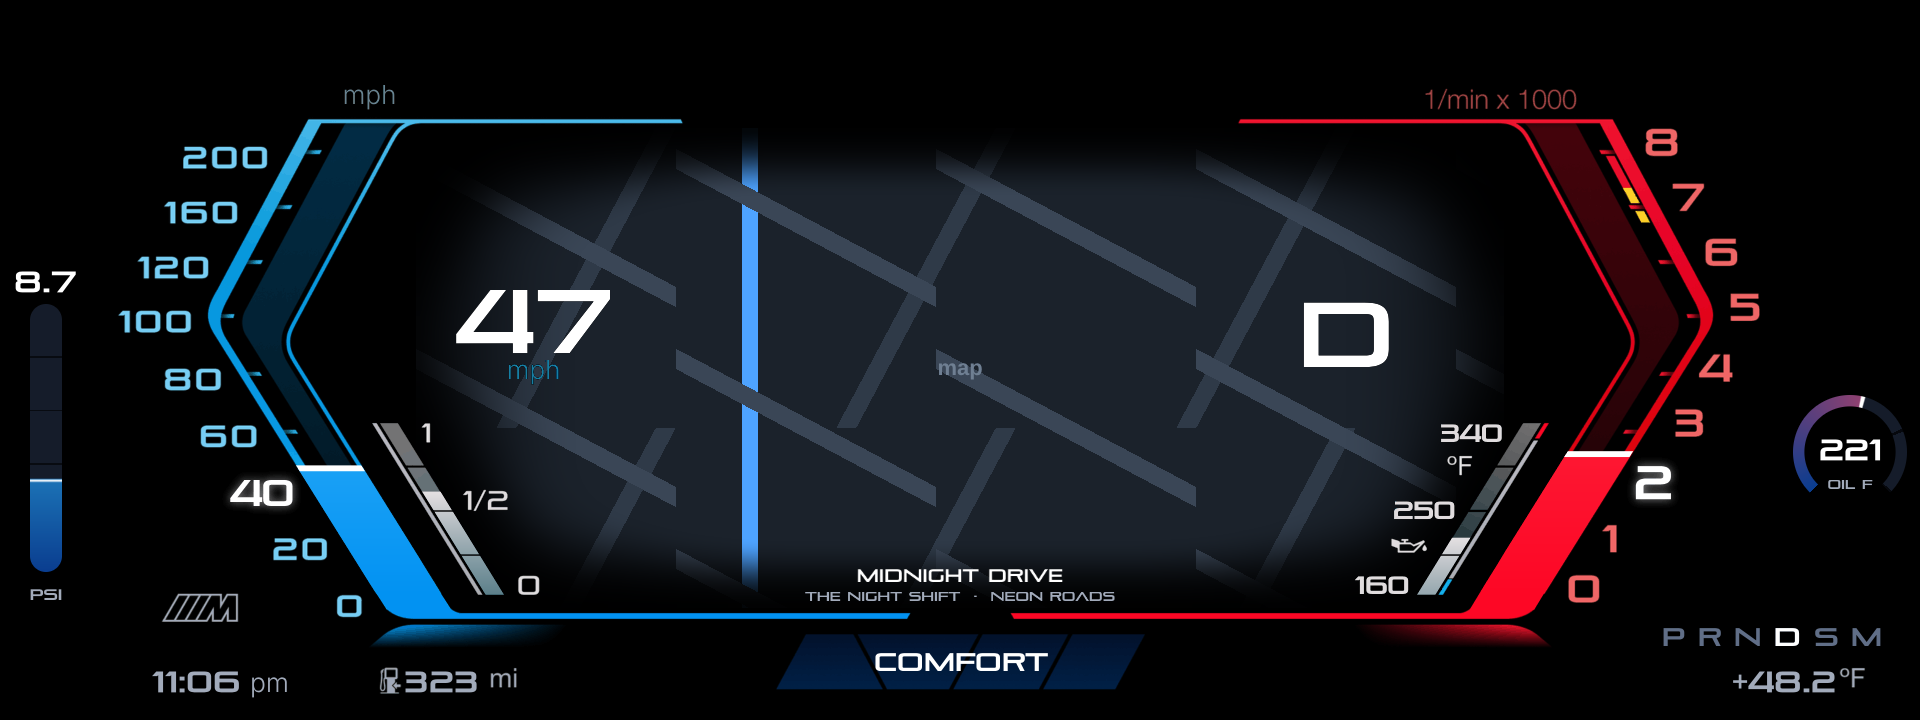
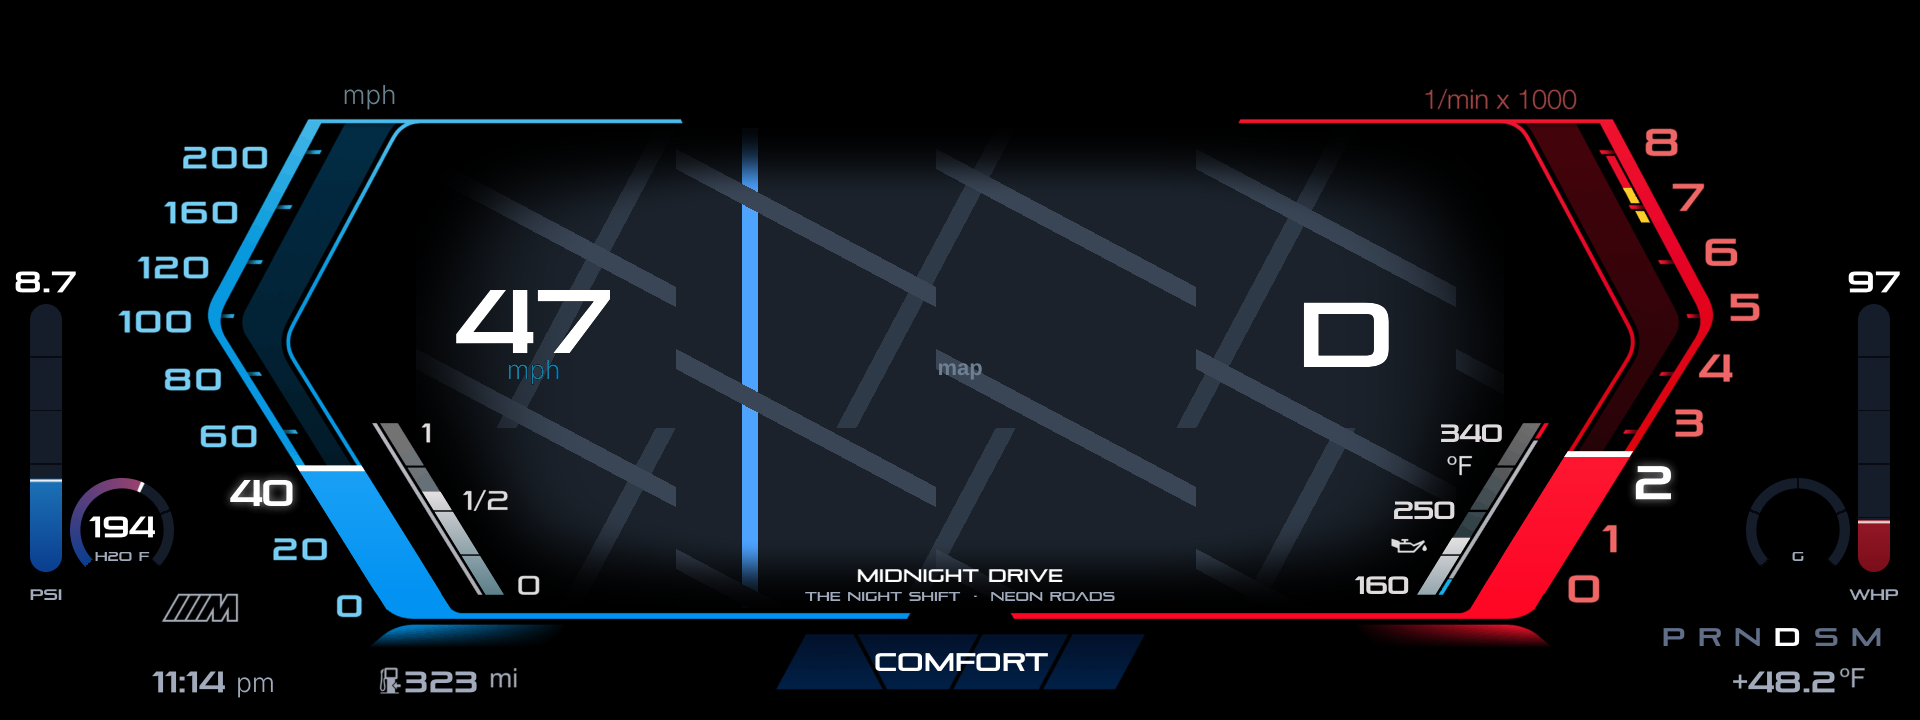
M340i Sport: four side gauges: the upright bars and a round dial beside each
The round gauges are their own pair (Settings > Round gauge, left / right), low between each bar and the scale's
lowest numbers (r 53), next to the upright ones (Settings > Upright gauge, left / right); the style settings gone.
Page 5 previews all four. Cluster Layouts 0.37.0.

Claude-Session: https://claude.ai/code/session_01NEJZ4JkLAWdYBUEsKdjt1e

Changed region(s): [[0.9062, 0.3667, 1.0, 0.7944], [0.0312, 0.6722, 0.0938, 0.7944], [0.0938, 0.9167, 0.1562, 0.9778]]

diff --git a/apps/cluster_layouts/main.js b/apps/cluster_layouts/main.js
@@ -94,7 +94,7 @@ mgu.run({
             directions: settings.get('directions') === 'off' ? 'off' : 'on',   // (M340i Sport: the next turn at the top of the centre)
             // (M340i Sport: the side gauges, and where their power and torque are taken)
             sideLeft: settings.get('sideLeft') || 'off', sideRight: settings.get('sideRight') || 'off',
-            styleLeft: settings.get('styleLeft') === 'dial' ? 'dial' : 'bar', styleRight: settings.get('styleRight') === 'dial' ? 'dial' : 'bar',
+            dialLeft: settings.get('dialLeft') || 'off', dialRight: settings.get('dialRight') || 'off',
             powerAt: settings.get('powerAt') === 'wheel' ? 'wheel' : 'crank', drivetrainLoss: Number(settings.get('drivetrainLoss')) || 15,
             vehicle: D.vehicle().vehicle,      // set, or found from the car (Auto)
         });
@@ -163,7 +163,7 @@ mgu.run({
         settings.onChange((k) => {
             if (k === 'look' || k === 'background') return cluster.recolour();
             if (k === 'layout') layout = byId(settings.get('layout'));
-            if (['layout', 'centre', 'speedUnit', 'tempUnit', 'torqueUnit', 'redline', 'rpmMax', 'boxClear', 'boxBezel', 'cluster', 'bottomStrip', 'vehicle', 'tankLitres', 'nowPlaying', 'directions', 'sideLeft', 'sideRight', 'styleLeft', 'styleRight', 'powerAt', 'drivetrainLoss'].indexOf(k) >= 0) cluster.rebuild();
+            if (['layout', 'centre', 'speedUnit', 'tempUnit', 'torqueUnit', 'redline', 'rpmMax', 'boxClear', 'boxBezel', 'cluster', 'bottomStrip', 'vehicle', 'tankLitres', 'nowPlaying', 'directions', 'sideLeft', 'sideRight', 'dialLeft', 'dialRight', 'powerAt', 'drivetrainLoss'].indexOf(k) >= 0) cluster.rebuild();
         });
 
         /* ---------- the car's range and charge signals, from its own catalog ---------- */
@@ -182,29 +182,37 @@ mgu.run({
          * now (or a sample while parked), the warnings and the 0-60 best below */
         function widgetsPage(cv, t) {
             const d = data(), o = options(), L = require('./layout_m340');
-            cv.text('Side gauges   ·   Settings > Side gauge, left / right', 48, 70, 26, t.text, { font: 'bold', literal: true });
+            cv.text('Side gauges   ·   Settings > Upright gauge and Round gauge, left / right', 48, 60, 24, t.text, { font: 'bold', literal: true });
             const sample = !(isNum(d.rpm) && d.rpm > 300);
+            if (sample) cv.text('(sample readings: the engine is off)', 48, 92, 18, t.dim, { font: 'label', literal: true });
             const dd = sample ? Object.assign({}, d, { rpm: 4800, torque: 480, boostActual: 1.05, oil: 105, coolant: 95, gLong: 0.4, gLat: 0.3, speed: 96 }) : d;
-            ['left', 'right'].forEach((side, i) => {
-                const kind = o['side' + (side === 'left' ? 'Left' : 'Right')], x = 120 + i * 560;
-                cv.text(side === 'left' ? 'Left' : 'Right', x, 130, 22, t.dim, { font: 'bold', literal: true });
-                if (!kind || kind === 'off') { cv.text('Off', x, 170, 30, t.dim, { font: 'bold', literal: true }); return; }
-                const r = L.sideReading(kind, o, dd), K = L.SIDE_KINDS[kind];
-                const f = Math.max(0, Math.min(1, ((r.value || 0) - (K.min || 0)) / (K.max - (K.min || 0)))), bx = x, by = 150, bw = 44, bh = 300;
-                if (o['style' + (side === 'left' ? 'Left' : 'Right')] === 'dial') {
-                    // the dial: its ring from the lower left clockwise, lit to the reading
-                    const cx = bx + 22, cy = by + 150, R = 70;
-                    cv.arc(cx, cy, R - 14, R, 225, 495, '#151c2a');
-                    if (f > 0) cv.arc(cx, cy, R - 14, R, 225, 225 + 270 * f, K.c[1]);
-                } else {
-                    cv.roundRect(bx, by, bw, bh, bw / 2, '#151c2a');
-                    if (f > 0) cv.roundRect(bx, by + bh * (1 - f), bw, bh * f, bw / 2, K.c[1]);
-                    cv.fillRect(bx, by + bh * (1 - f), bw, 3, '#ffffff');
-                }
-                cv.text(r.text, bx + 80, by + 120, 64, t.text, { font: 'bold', literal: true });
-                cv.text(r.unit + (sample ? '   (a sample: the engine is off)' : ''), bx + 84, by + 160, 22, t.dim, { font: 'bold', literal: true });
-                cv.text({ boost: 'Boost over the air outside', hp: 'Horsepower from torque and revs', torque: 'Torque, the engine\'s reading', oil: 'Oil temperature', coolant: 'Coolant temperature', gforce: 'G-force, braking, cornering and accelerating together', speedkmh: 'Speed in km/h' }[kind]
-                    + (kind !== 'boost' ? (o.powerAt === 'wheel' ? ', at the wheels (less ' + o.drivetrainLoss + ' %)' : ', at the crank') : ''), bx + 84, by + 196, 18, t.dim, { font: 'label', literal: true });
+            const NAMES = { boost: 'Boost', hp: 'Horsepower', torque: 'Torque', oil: 'Oil temperature', coolant: 'Coolant temperature', gforce: 'G-force', speedkmh: 'Speed in km/h' };
+            /* each side as on the cluster: the upright gauge at the outer edge, the round one beside it */
+            [['left', 'Left', 60], ['right', 'Right', 840]].forEach(([side, Side, x0]) => {
+                cv.text(Side, x0, 136, 22, t.dim, { font: 'bold', literal: true });
+                const bar = o['side' + Side], dial = o['dial' + Side];
+                const one = (kind, x, round) => {
+                    if (!kind || kind === 'off') { cv.text((round ? 'Round' : 'Upright') + ': off', x, 300, 22, t.dim, { font: 'bold', literal: true }); return; }
+                    const r = L.sideReading(kind, o, dd), K = L.SIDE_KINDS[kind];
+                    const f = Math.max(0, Math.min(1, ((r.value || 0) - (K.min || 0)) / (K.max - (K.min || 0))));
+                    if (round) {
+                        const cx = x + 80, cy = 300, R = 80;
+                        cv.arc(cx, cy, R - 16, R, 225, 495, '#151c2a');
+                        if (f > 0) cv.arc(cx, cy, R - 16, R, 225, 225 + 270 * f, K.c[1]);
+                        cv.text(r.text, cx, cy + 12, 36, t.text, { font: 'bold', literal: true, align: 'center' });
+                        cv.text(r.unit, cx, cy + 40, 16, t.dim, { font: 'bold', literal: true, align: 'center' });
+                    } else {
+                        const by = 170, bw = 40, bh = 280;
+                        cv.roundRect(x, by, bw, bh, bw / 2, '#151c2a');
+                        if (f > 0) cv.roundRect(x, by + bh * (1 - f), bw, bh * f, bw / 2, K.c[1]);
+                        cv.fillRect(x, by + bh * (1 - f), bw, 3, '#ffffff');
+                        cv.text(r.text, x + bw / 2, by - 12, 26, t.text, { font: 'bold', literal: true, align: 'center' });
+                        cv.text(r.unit, x + bw / 2, by + bh + 24, 16, t.dim, { font: 'bold', literal: true, align: 'center' });
+                    }
+                    cv.text(NAMES[kind] + (kind === 'hp' || kind === 'torque' ? (o.powerAt === 'wheel' ? ' (wheels, less ' + o.drivetrainLoss + ' %)' : ' (crank)') : ''), round ? x + 10 : x - 10, 440, 16, t.dim, { font: 'label', literal: true });
+                };
+                // (the left side's upright gauge at its outer edge, then the round one; the right side mirrored)
+                if (side === 'left') { one(bar, x0, false); one(dial, x0 + 110, true); } else { one(dial, x0 + 380, true); one(bar, x0 + 640, false); }
             });
             cv.text('Warnings: ' + (D.status().warnings || '-'), 48, 490, 16, t.dim, { font: 'label', literal: true });
             return cv;

diff --git a/apps/cluster_layouts/layout_m340.js b/apps/cluster_layouts/layout_m340.js
@@ -425,8 +425,9 @@ const SIDE_KINDS = {
 };
 /** A reading as a place along a gauge (0..1), from its kind's min (0 by default) to its max. */
 const sideFrac = (K, v) => clamp01(((v || 0) - (K.min || 0)) / (K.max - (K.min || 0)));
-/* the round side gauges (Settings > Side gauge style: Round): in each outer gap, beside the scales' middle */
-const SIDE_D = { left: { cx: 70 }, right: { cx: 1850 }, cy: 452, r: 58 };
+/* the round gauges (Settings > Round gauge, left / right): beside the upright bars, low in each outer gap, between
+ * the bar and the scale's lowest numbers */
+const SIDE_D = { left: { cx: 122 }, right: { cx: 1798 }, cy: 530, r: 53 };
 /** A side gauge's reading: its value (in its unit), as text, and its unit. */
 function sideOf(kind, o) {
     const K = SIDE_KINDS[kind], wheel = o.powerAt === 'wheel', keep = 1 - (Number(o.drivetrainLoss) || 15) / 100;
@@ -441,7 +442,6 @@ function sideReading(kind, o, d) {
     return { value: v, text: v === null ? '--' : SIDE_KINDS[kind].fmt(v), unit: r.unit };
 }
 function sideGauge(side, kind, o) {
-    if ((side === 'left' ? o.styleLeft : o.styleRight) === 'dial') return sideDial(side, kind, o);
     const K = SIDE_KINDS[kind], at = SIDE_G[side], { of, unit } = sideOf(kind, o);
     let lbl = null;
     const label = () => {
@@ -479,8 +479,8 @@ function sideDial(side, kind, o) {
         { key: 'dial_' + side, kind: 'm340dial', x: cx - R, y: SIDE_D.cy - R, w: 2 * R, h: 2 * R,
             params: { u_ticks: [K.ticks], u_track: hexRGB('#151c2a') }, colors: () => ({ c0: K.c[0], c1: K.c[1] }),
             value: (d) => sideFrac(K, of(d)), max: 1, glide: true },
-        ...line('dialVal_' + side, 'small', { x: cx, base: SIDE_D.cy + 8 }, 'middle', 100, (d) => { const v = of(d); return v === null ? '' : K.fmt(v); }, 'fg'),
-        { key: 'dialUnit_' + side, kind: 'm340text', x: cx - 48, y: SIDE_D.cy + 20, w: 96, h: 24, live: { name: 'u_text', w: 96, h: 24, draw: label },
+        ...line('dialVal_' + side, 'small', { x: cx, base: SIDE_D.cy + 7 }, 'middle', 84, (d) => { const v = of(d); return v === null ? '' : K.fmt(v); }, 'fg'),
+        { key: 'dialUnit_' + side, kind: 'm340text', x: cx - 48, y: SIDE_D.cy + 14, w: 96, h: 24, live: { name: 'u_text', w: 96, h: 24, draw: label },
             colors: (t) => ({ color: [t.dim, 1] }) },
     ];
 }
@@ -580,6 +580,9 @@ module.exports = {
         // the side gauges (Settings > Side gauges)
         if (o.sideLeft && o.sideLeft !== 'off' && SIDE_KINDS[o.sideLeft]) list.push(...sideGauge('left', o.sideLeft, o));
         if (o.sideRight && o.sideRight !== 'off' && SIDE_KINDS[o.sideRight]) list.push(...sideGauge('right', o.sideRight, o));
+        // the round gauges beside them (Settings > Round gauge, left / right)
+        if (o.dialLeft && o.dialLeft !== 'off' && SIDE_KINDS[o.dialLeft]) list.push(...sideDial('left', o.dialLeft, o));
+        if (o.dialRight && o.dialRight !== 'off' && SIDE_KINDS[o.dialRight]) list.push(...sideDial('right', o.dialRight, o));
         if (stock) return list.filter((p) => p.kind === 'flat' || p.x + p.w <= 566 || p.x >= 1104);
         return list;
     },

diff --git a/tools/preview.js b/tools/preview.js
@@ -128,7 +128,7 @@ function navOf(v) {
 
 if (require.main === module) {
     const a = args(process.argv.slice(2));
-    const s = makeScene({ layout: a.layout, look: a.look, black: !!a.black, options: { centre: a.centre, speedUnit: a.kmh ? 'kmh' : 'mph', vehicle: a.engine ? 'ice' : 'phev', cluster: a.mcar ? 'm' : 'standard', bottomStrip: a.strip ? 'stock' : 'layout', sideLeft: a.left || 'off', sideRight: a.right || 'off', styleLeft: a.lstyle || 'bar', styleRight: a.rstyle || 'bar', powerAt: a.wheel ? 'wheel' : 'crank', drivetrainLoss: 15 },
+    const s = makeScene({ layout: a.layout, look: a.look, black: !!a.black, options: { centre: a.centre, speedUnit: a.kmh ? 'kmh' : 'mph', vehicle: a.engine ? 'ice' : 'phev', cluster: a.mcar ? 'm' : 'standard', bottomStrip: a.strip ? 'stock' : 'layout', sideLeft: a.left || 'off', sideRight: a.right || 'off', dialLeft: a.ldial || 'off', dialRight: a.rdial || 'off', powerAt: a.wheel ? 'wheel' : 'crank', drivetrainLoss: 15 },
         data: { speed: a.speed * (a.kmh ? 1 : 1.609344), rpm: a.rpm, gear: a.gear, stage: a.stage, mode: a.mode, driveMode: a.drive, oil: a.oil, coolant: a.coolant, outside: a.outside, soc: a.soc, kw: a.kw, erange: a.erange, frange: a.frange,
             gearbox: a.gearbox, iat: a.iat, battTemp: a.batt, boostActual: a.boost, torque: 312, timing: 14.5, hpfp: 205, boostTarget: 0.9, engineOn: a.rpm > 300, media: songOf(a.song), nav: navOf(a.nav), warnings: a.warn ? String(a.warn).split('|').map((n, i) => ({ id: String(i), name: n.replace(/^!/, ''), red: n[0] === '!' })) : [], zeroSixty: a.zs ? { s: Number(a.zs), best: Number(a.zs), isBest: true } : null, tyres: { p: { FL: 2.48, FR: 2.50, RL: 2.62, RR: 2.60 }, t: { FL: 24, FR: 25, RL: 27, RR: 26 } }, fuelPct: a.fuel, pdDrive: 62, pdClimate: 24, pdSeats: 14, dap: a.dap ? require('../apps/cluster_layouts/dap').DEMO : null } });
     // let the needles ease to their readings

diff --git a/tools/test_m340_extras.js b/tools/test_m340_extras.js
@@ -22,9 +22,9 @@ check('warnings: active ones named from the cluster\'s list, newest first, gone 
     w.basic([{ ccmId: 77, activeState: 'PASSIV' }]);
     assert.strictEqual(w.list().length, 2);
 });
-check('side gauges: each kind, bar or dial, clear of the corners, the eDrive box and the readings, in both centres', () => {
+check('side gauges: each kind, the bars alone or with the round ones beside them (four at once), clear of the corners, the eDrive box and the readings, in both centres', () => {
     Object.keys(L.SIDE_KINDS).forEach((k) => ['info', 'map'].forEach((centre) => ['bar', 'dial'].forEach((style) => {
-        const o = O({ centre, sideLeft: k, sideRight: k, styleLeft: style, styleRight: style });
+        const o = O(style === 'bar' ? { centre, sideLeft: k, sideRight: k } : { centre, sideLeft: k, sideRight: k, dialLeft: k, dialRight: k });
         const bad = L.pieces(o).map((p) => [p.key, clashes(p, o)]).filter(([, c]) => c.length);
         assert(!bad.length, JSON.stringify(bad));
         assert(L.pieces(o).length <= 60);

diff --git a/M340.md b/M340.md
@@ -52,10 +52,10 @@ export with its moving parts); `tools/bake_m340.py` draws that page at the clust
 - The car's warnings (Check Control: drivetrain, temperatures, tyres ...): a banner at the bottom middle, over
   everything and the map too, red or amber as the car colours the message.
 - The gear lever's place, bottom right: P R N D S M, the one selected lit.
-- Side gauges (Settings > Side gauge, left / right): boost (psi), horsepower, torque, oil or coolant
-  temperature, g-force or km/h; each an upright bar or a round dial (Settings > Side gauge style); horsepower and
-  torque at the crank or the wheels (Settings > Horsepower and torque at, Drivetrain loss). The app's page 5
-  (Signals) previews them.
+- Side gauges, up to four: an upright bar at each outer edge (Settings > Upright gauge, left / right) and a round
+  dial beside each, low between the bar and the scale (Settings > Round gauge, left / right); each boost (psi),
+  horsepower, torque, oil or coolant temperature, g-force or km/h; horsepower and torque at the crank or the
+  wheels (Settings > Horsepower and torque at, Drivetrain loss). The app's page 5 (Signals) previews them.
 - The Waze centre only while Waze on cluster shows its map; otherwise the layout's own centre (never the stock
   cluster's map screen).
 - The song: its title over its artist (Pirulen), one centred card low in the centre panel, or along the
